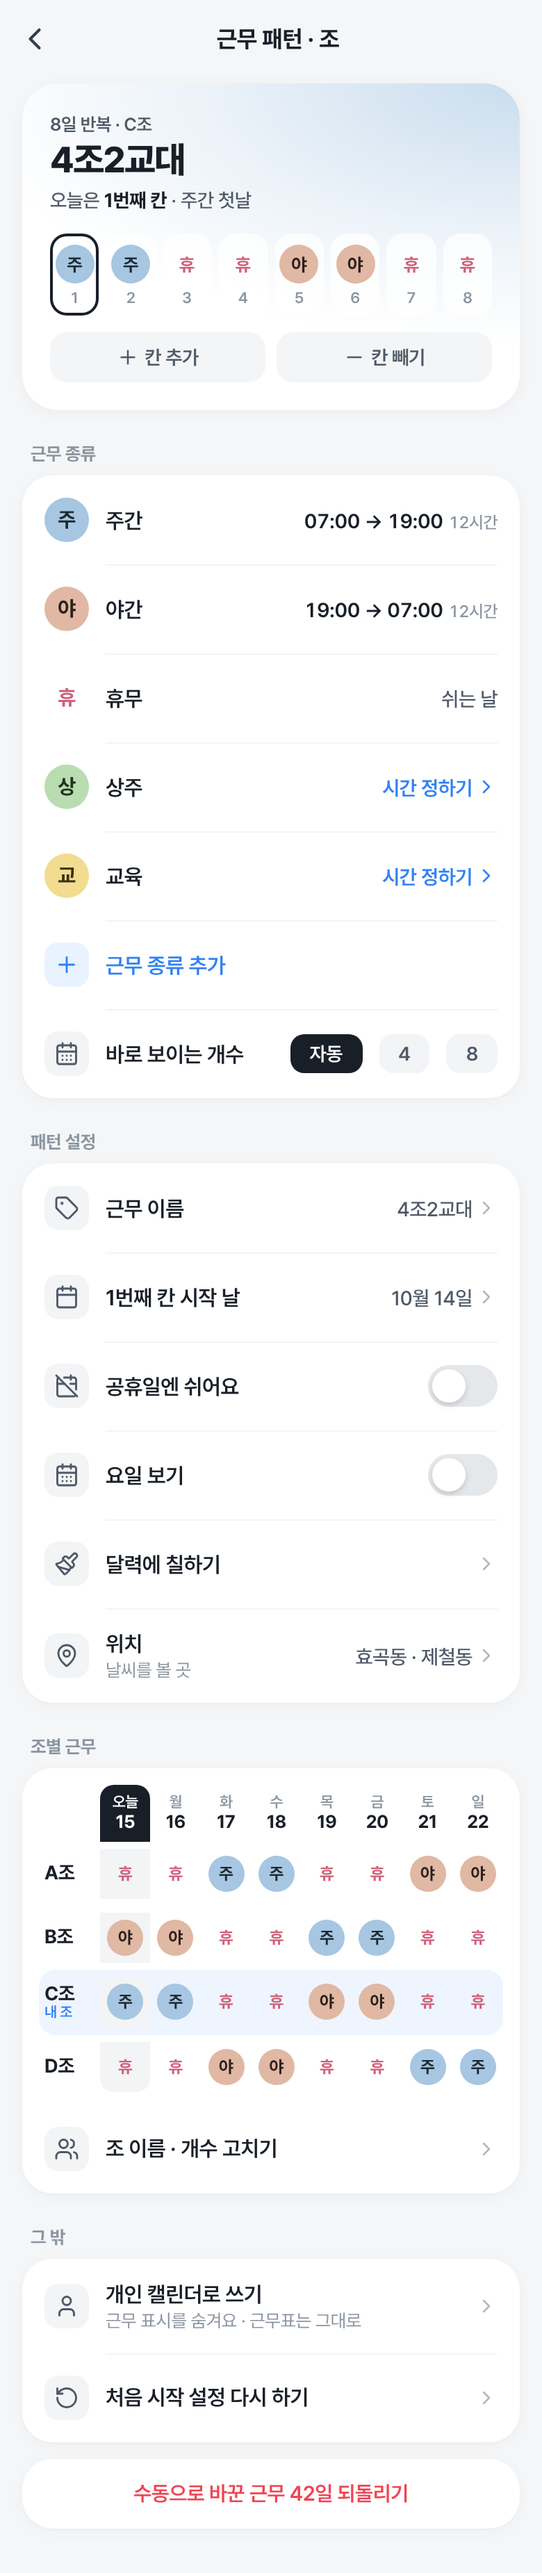
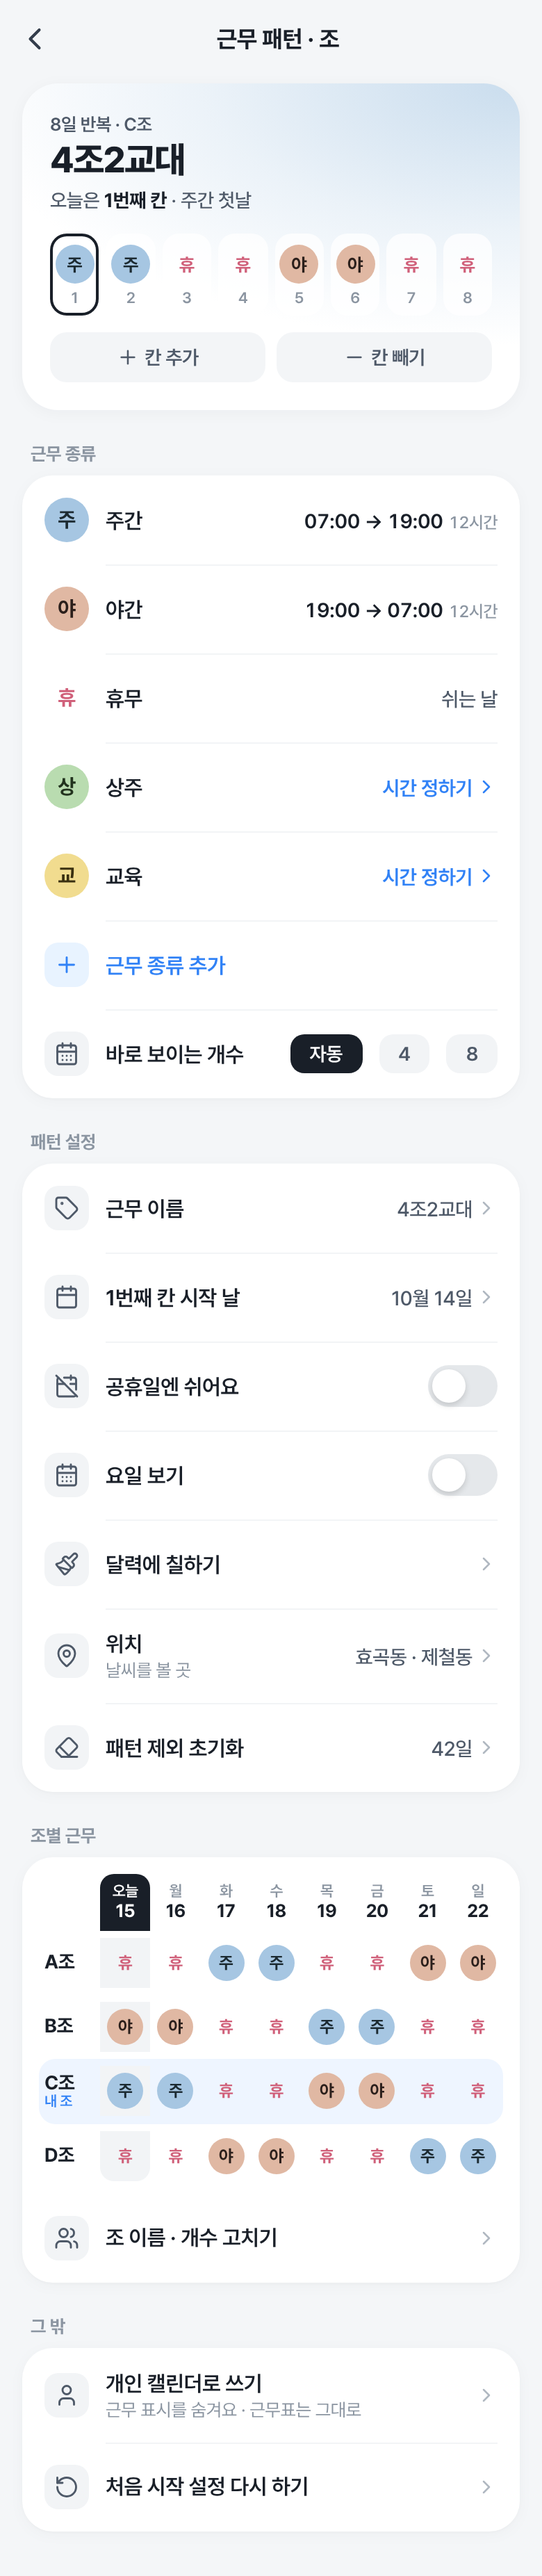
design: 근무 패턴 시안 · 패턴 제외 초기화 줄
Claude-Session: https://claude.ai/code/session_01JTBnEvptp151JygSjZNCTX

diff --git a/design/pattern/v1.html b/design/pattern/v1.html
@@ -322,7 +322,35 @@ h2{font-size:13px;font-weight:700;color:var(--ink3);margin:24px 6px 8px}
 >
   <path d="m9 18 6-6-6-6" />
 </svg></span></div>
-</div>
+<div class="r"><span class="ti"><svg
+  class="lucide lucide-eraser"
+  xmlns="http://www.w3.org/2000/svg"
+  width="18"
+  height="18"
+  viewBox="0 0 24 24"
+  fill="none"
+  stroke="currentColor"
+  stroke-width="1.9"
+  stroke-linecap="round"
+  stroke-linejoin="round"
+>
+  <path d="m7 21-4.3-4.3c-1-1-1-2.5 0-3.4l9.6-9.6c1-1 2.5-1 3.4 0l5.6 5.6c1 1 1 2.5 0 3.4L13 21" />
+  <path d="M22 21H7" />
+  <path d="m5 11 9 9" />
+</svg></span><div class="l"><div class="n">패턴 제외 초기화</div></div><span class="v">42일<svg
+  class="lucide lucide-chevron-right"
+  xmlns="http://www.w3.org/2000/svg"
+  width="16"
+  height="16"
+  viewBox="0 0 24 24"
+  fill="none"
+  stroke="currentColor"
+  stroke-width="1.9"
+  stroke-linecap="round"
+  stroke-linejoin="round"
+>
+  <path d="m9 18 6-6-6-6" />
+</svg></span></div></div>
 <h2>조별 근무</h2><div class="g"><div class="tgrid"><div class="tg-h"><span></span><span class="td"><small>오늘</small>15</span><span class=""><small>월</small>16</span><span class=""><small>화</small>17</span><span class=""><small>수</small>18</span><span class=""><small>목</small>19</span><span class=""><small>금</small>20</span><span class=""><small>토</small>21</span><span class=""><small>일</small>22</span></div><div class="tg-r"><span class="tn">A조</span><span class="td"><span class="bd" style="width:26px;height:26px;font-size:12px;color:#d0607a">휴</span></span><span class=""><span class="bd" style="width:26px;height:26px;font-size:12px;color:#d0607a">휴</span></span><span class=""><span class="bd" style="width:26px;height:26px;font-size:12px;background:#a6c6e2;color:#1c2a31">주</span></span><span class=""><span class="bd" style="width:26px;height:26px;font-size:12px;background:#a6c6e2;color:#1c2a31">주</span></span><span class=""><span class="bd" style="width:26px;height:26px;font-size:12px;color:#d0607a">휴</span></span><span class=""><span class="bd" style="width:26px;height:26px;font-size:12px;color:#d0607a">휴</span></span><span class=""><span class="bd" style="width:26px;height:26px;font-size:12px;background:#e0b8a3;color:#2b1f1b">야</span></span><span class=""><span class="bd" style="width:26px;height:26px;font-size:12px;background:#e0b8a3;color:#2b1f1b">야</span></span></div><div class="tg-r"><span class="tn">B조</span><span class="td"><span class="bd" style="width:26px;height:26px;font-size:12px;background:#e0b8a3;color:#2b1f1b">야</span></span><span class=""><span class="bd" style="width:26px;height:26px;font-size:12px;background:#e0b8a3;color:#2b1f1b">야</span></span><span class=""><span class="bd" style="width:26px;height:26px;font-size:12px;color:#d0607a">휴</span></span><span class=""><span class="bd" style="width:26px;height:26px;font-size:12px;color:#d0607a">휴</span></span><span class=""><span class="bd" style="width:26px;height:26px;font-size:12px;background:#a6c6e2;color:#1c2a31">주</span></span><span class=""><span class="bd" style="width:26px;height:26px;font-size:12px;background:#a6c6e2;color:#1c2a31">주</span></span><span class=""><span class="bd" style="width:26px;height:26px;font-size:12px;color:#d0607a">휴</span></span><span class=""><span class="bd" style="width:26px;height:26px;font-size:12px;color:#d0607a">휴</span></span></div><div class="tg-r me"><span class="tn">C조<small>내 조</small></span><span class="td"><span class="bd" style="width:26px;height:26px;font-size:12px;background:#a6c6e2;color:#1c2a31">주</span></span><span class=""><span class="bd" style="width:26px;height:26px;font-size:12px;background:#a6c6e2;color:#1c2a31">주</span></span><span class=""><span class="bd" style="width:26px;height:26px;font-size:12px;color:#d0607a">휴</span></span><span class=""><span class="bd" style="width:26px;height:26px;font-size:12px;color:#d0607a">휴</span></span><span class=""><span class="bd" style="width:26px;height:26px;font-size:12px;background:#e0b8a3;color:#2b1f1b">야</span></span><span class=""><span class="bd" style="width:26px;height:26px;font-size:12px;background:#e0b8a3;color:#2b1f1b">야</span></span><span class=""><span class="bd" style="width:26px;height:26px;font-size:12px;color:#d0607a">휴</span></span><span class=""><span class="bd" style="width:26px;height:26px;font-size:12px;color:#d0607a">휴</span></span></div><div class="tg-r"><span class="tn">D조</span><span class="td"><span class="bd" style="width:26px;height:26px;font-size:12px;color:#d0607a">휴</span></span><span class=""><span class="bd" style="width:26px;height:26px;font-size:12px;color:#d0607a">휴</span></span><span class=""><span class="bd" style="width:26px;height:26px;font-size:12px;background:#e0b8a3;color:#2b1f1b">야</span></span><span class=""><span class="bd" style="width:26px;height:26px;font-size:12px;background:#e0b8a3;color:#2b1f1b">야</span></span><span class=""><span class="bd" style="width:26px;height:26px;font-size:12px;color:#d0607a">휴</span></span><span class=""><span class="bd" style="width:26px;height:26px;font-size:12px;color:#d0607a">휴</span></span><span class=""><span class="bd" style="width:26px;height:26px;font-size:12px;background:#a6c6e2;color:#1c2a31">주</span></span><span class=""><span class="bd" style="width:26px;height:26px;font-size:12px;background:#a6c6e2;color:#1c2a31">주</span></span></div></div>
 <div class="r"><span class="ti"><svg
   class="lucide lucide-users"
@@ -413,5 +441,5 @@ h2{font-size:13px;font-weight:700;color:var(--ink3);margin:24px 6px 8px}
   <path d="m9 18 6-6-6-6" />
 </svg></span></div>
 </div>
-<div class="g" style="margin-top:12px"><div class="danger">수동으로 바꾼 근무 42일 되돌리기</div></div>
+
 </main>

diff --git a/docs/TODO.md b/docs/TODO.md
@@ -2459,6 +2459,6 @@
 
 ## 근무 패턴 · 조 화면도 알람 시안 7 방식으로 (사용자 2026-11-15 · 시안 design/pattern/v1.html · after.png)
 - 위 칸: 근무 이름 크게 · "8일 반복 · C조" · "오늘은 1번째 칸 · 주간 첫날" · 패턴 칸 8개 · 칸 추가/빼기 (근무 색 은은한 바탕).
-- 묶음: 근무 종류(배지 + 시간 · 시간 정하기 › · 근무 종류 추가 · 바로 보이는 개수 자동/4/8) / 패턴 설정(이름 · 1번째 칸 시작 날 · 공휴일엔 쉬어요 · 요일 보기 · 달력에 칠하기 · 위치) / 조별 근무(오늘 열 진하게 · 내 조 줄 파랑 · 조 이름 · 개수 고치기) / 그 밖(개인 캘린더 · 처음 설정 다시) / 맨 아래 빨간 "수동으로 바꾼 근무 42일 되돌리기".
+- 묶음: 근무 종류(배지 + 시간 · 시간 정하기 › · 근무 종류 추가 · 바로 보이는 개수 자동/4/8) / 패턴 설정(이름 · 1번째 칸 시작 날 · 공휴일엔 쉬어요 · 요일 보기 · 달력에 칠하기 · 위치) / 조별 근무(오늘 열 진하게 · 내 조 줄 파랑 · 조 이름 · 개수 고치기) / 그 밖(개인 캘린더 · 처음 설정 다시) / 수동 변경 초기화는 패턴 설정 묶음 맨 아래 보통 줄 "패턴 제외 초기화 · 42일 ›" (빨간 글씨 X) → 경고 창 2번 (1: "직접 바꾼 근무 42일(연차 · 근무 바꾸기 · 가족 요청 포함)을 모두 패턴대로 되돌려요" 2: "정말 지울까요? 되돌릴 수 없어요").
 - 설명 줄 뺌: "밑줄 있는 앞 4개는…" · "누르면 바꾸고 꾹 눌러…" · "바꾸면 이전 날짜…" · "빨간 날 근무를 휴무로" · "줄을 누르면 오늘 근무로…". 대신 기능은 그대로(꾹 눌러 끌기 · 조 줄 누르기 · ‹ › 밀기).
 - 만들 때 확인: 조별 표의 ‹ › 하루씩 밀기 버튼 자리 · 앞 4개 밑줄 표시를 어떻게 남길지.
